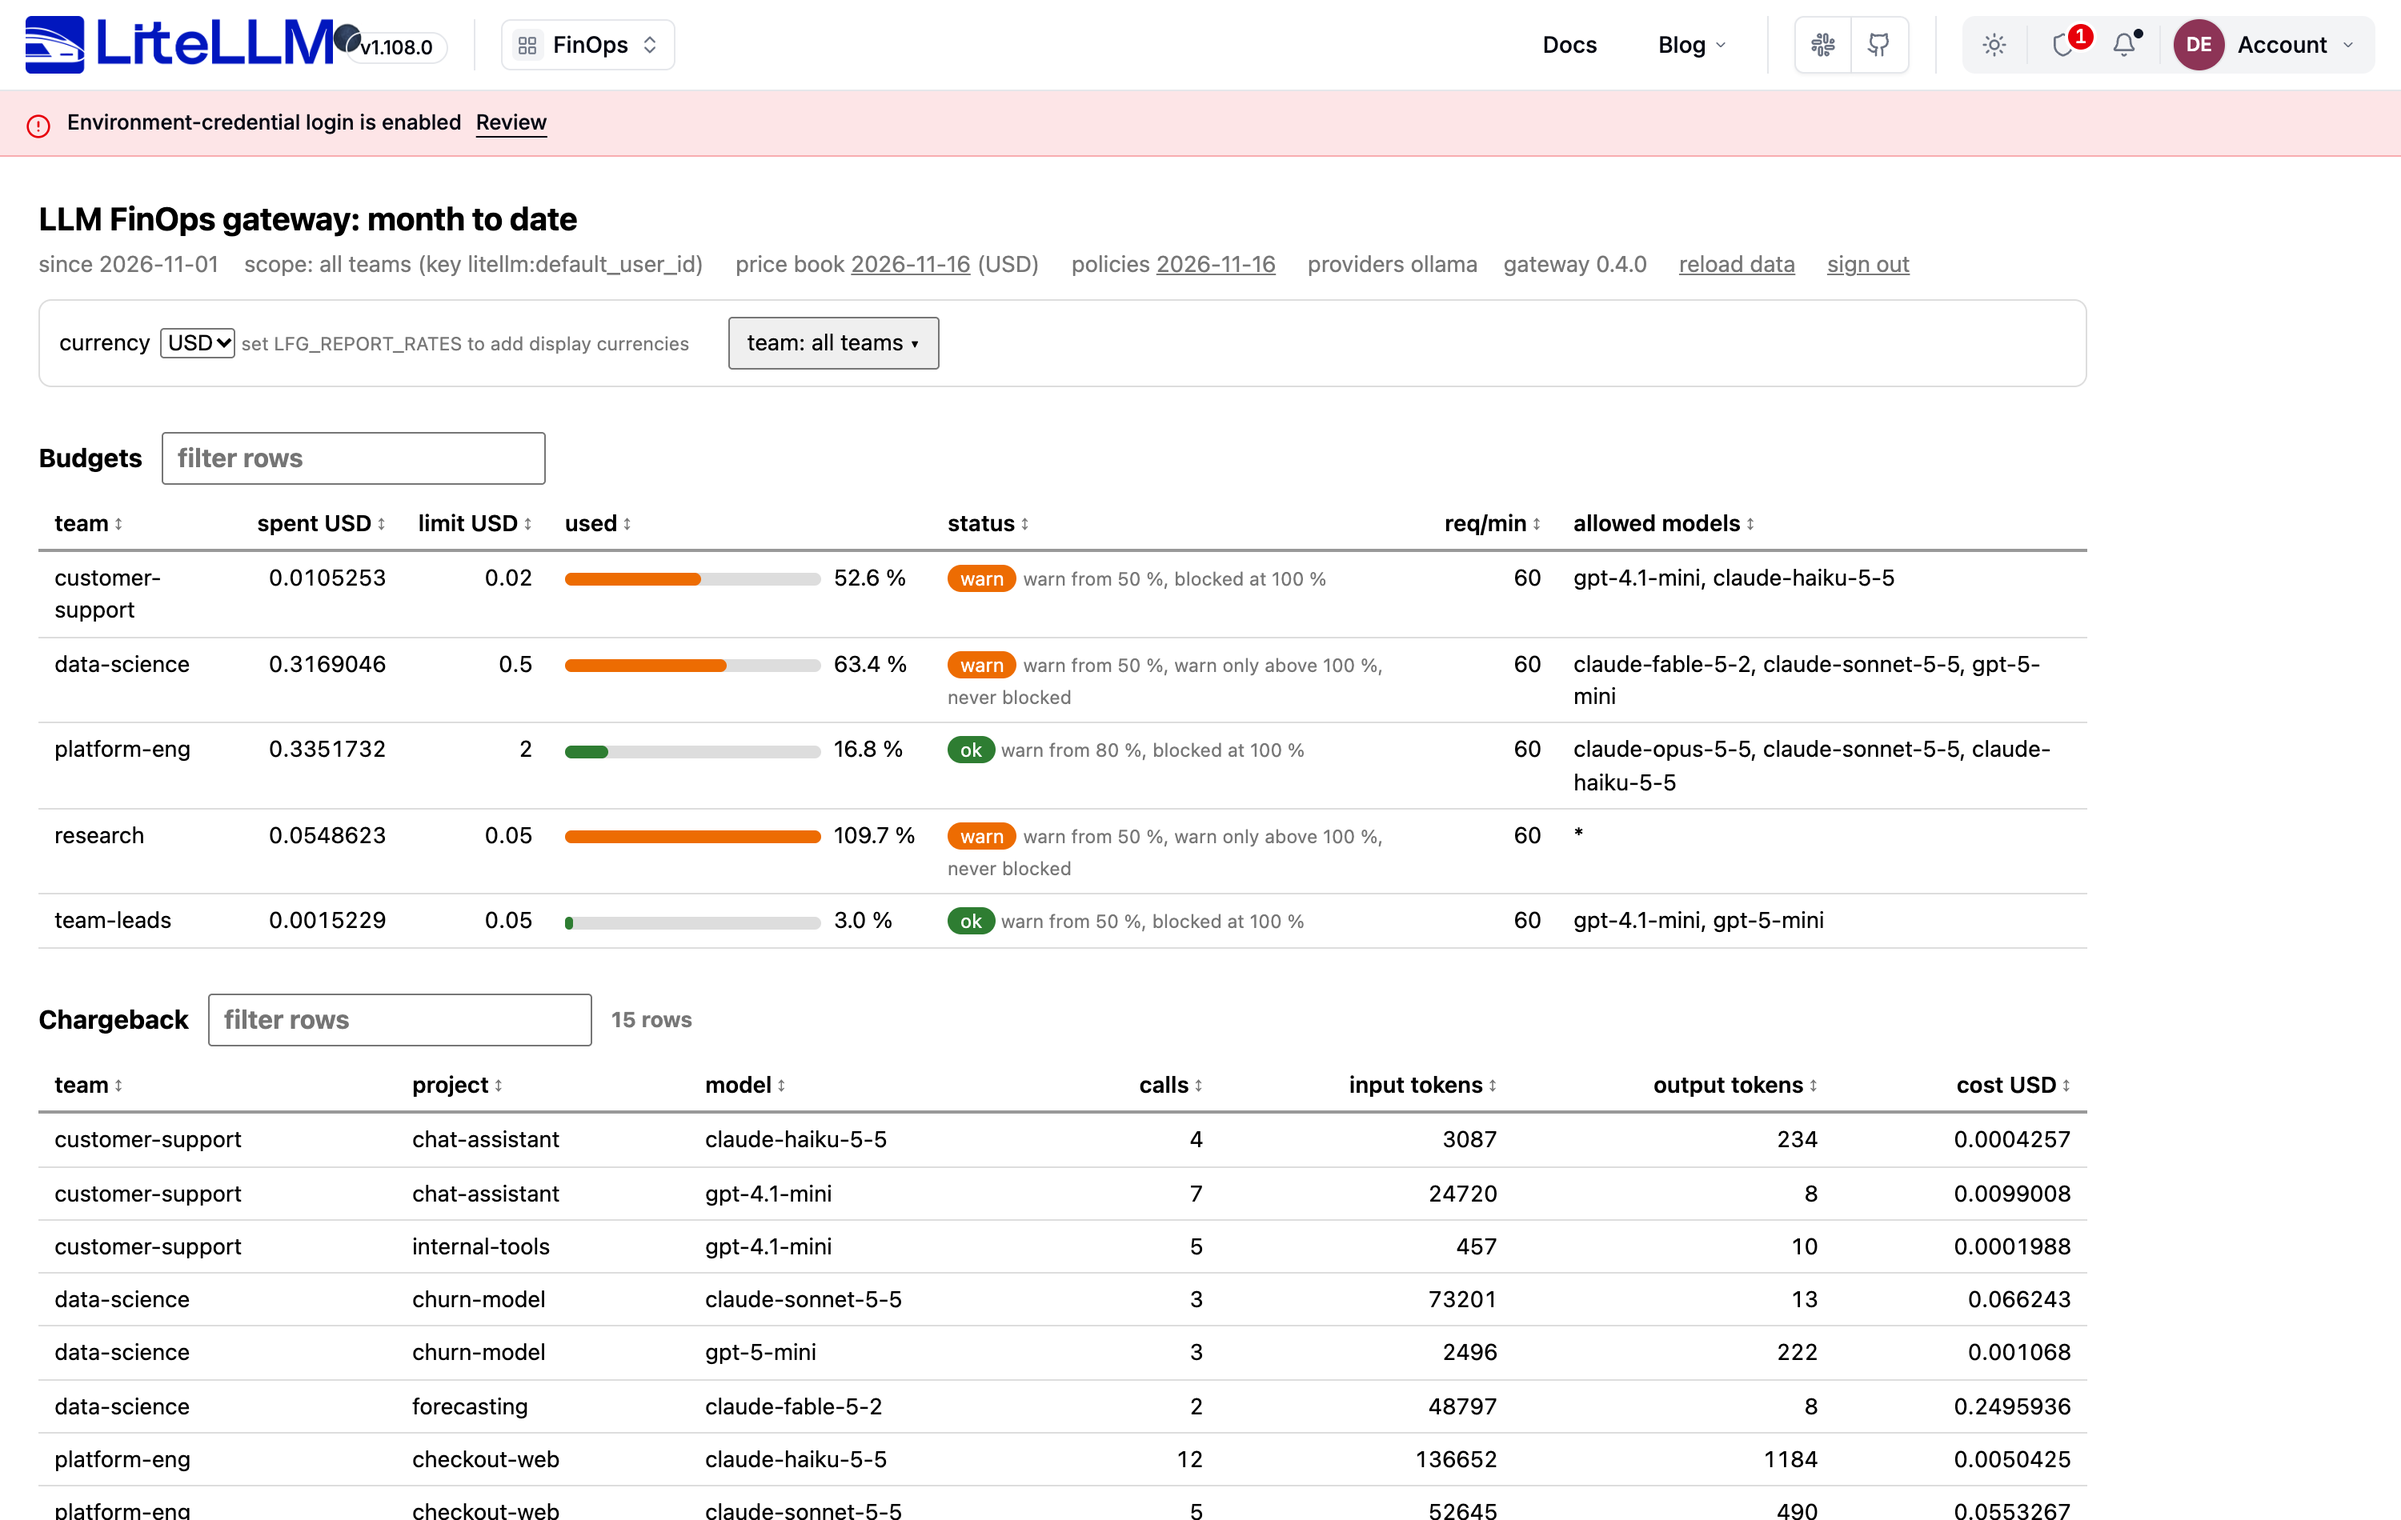
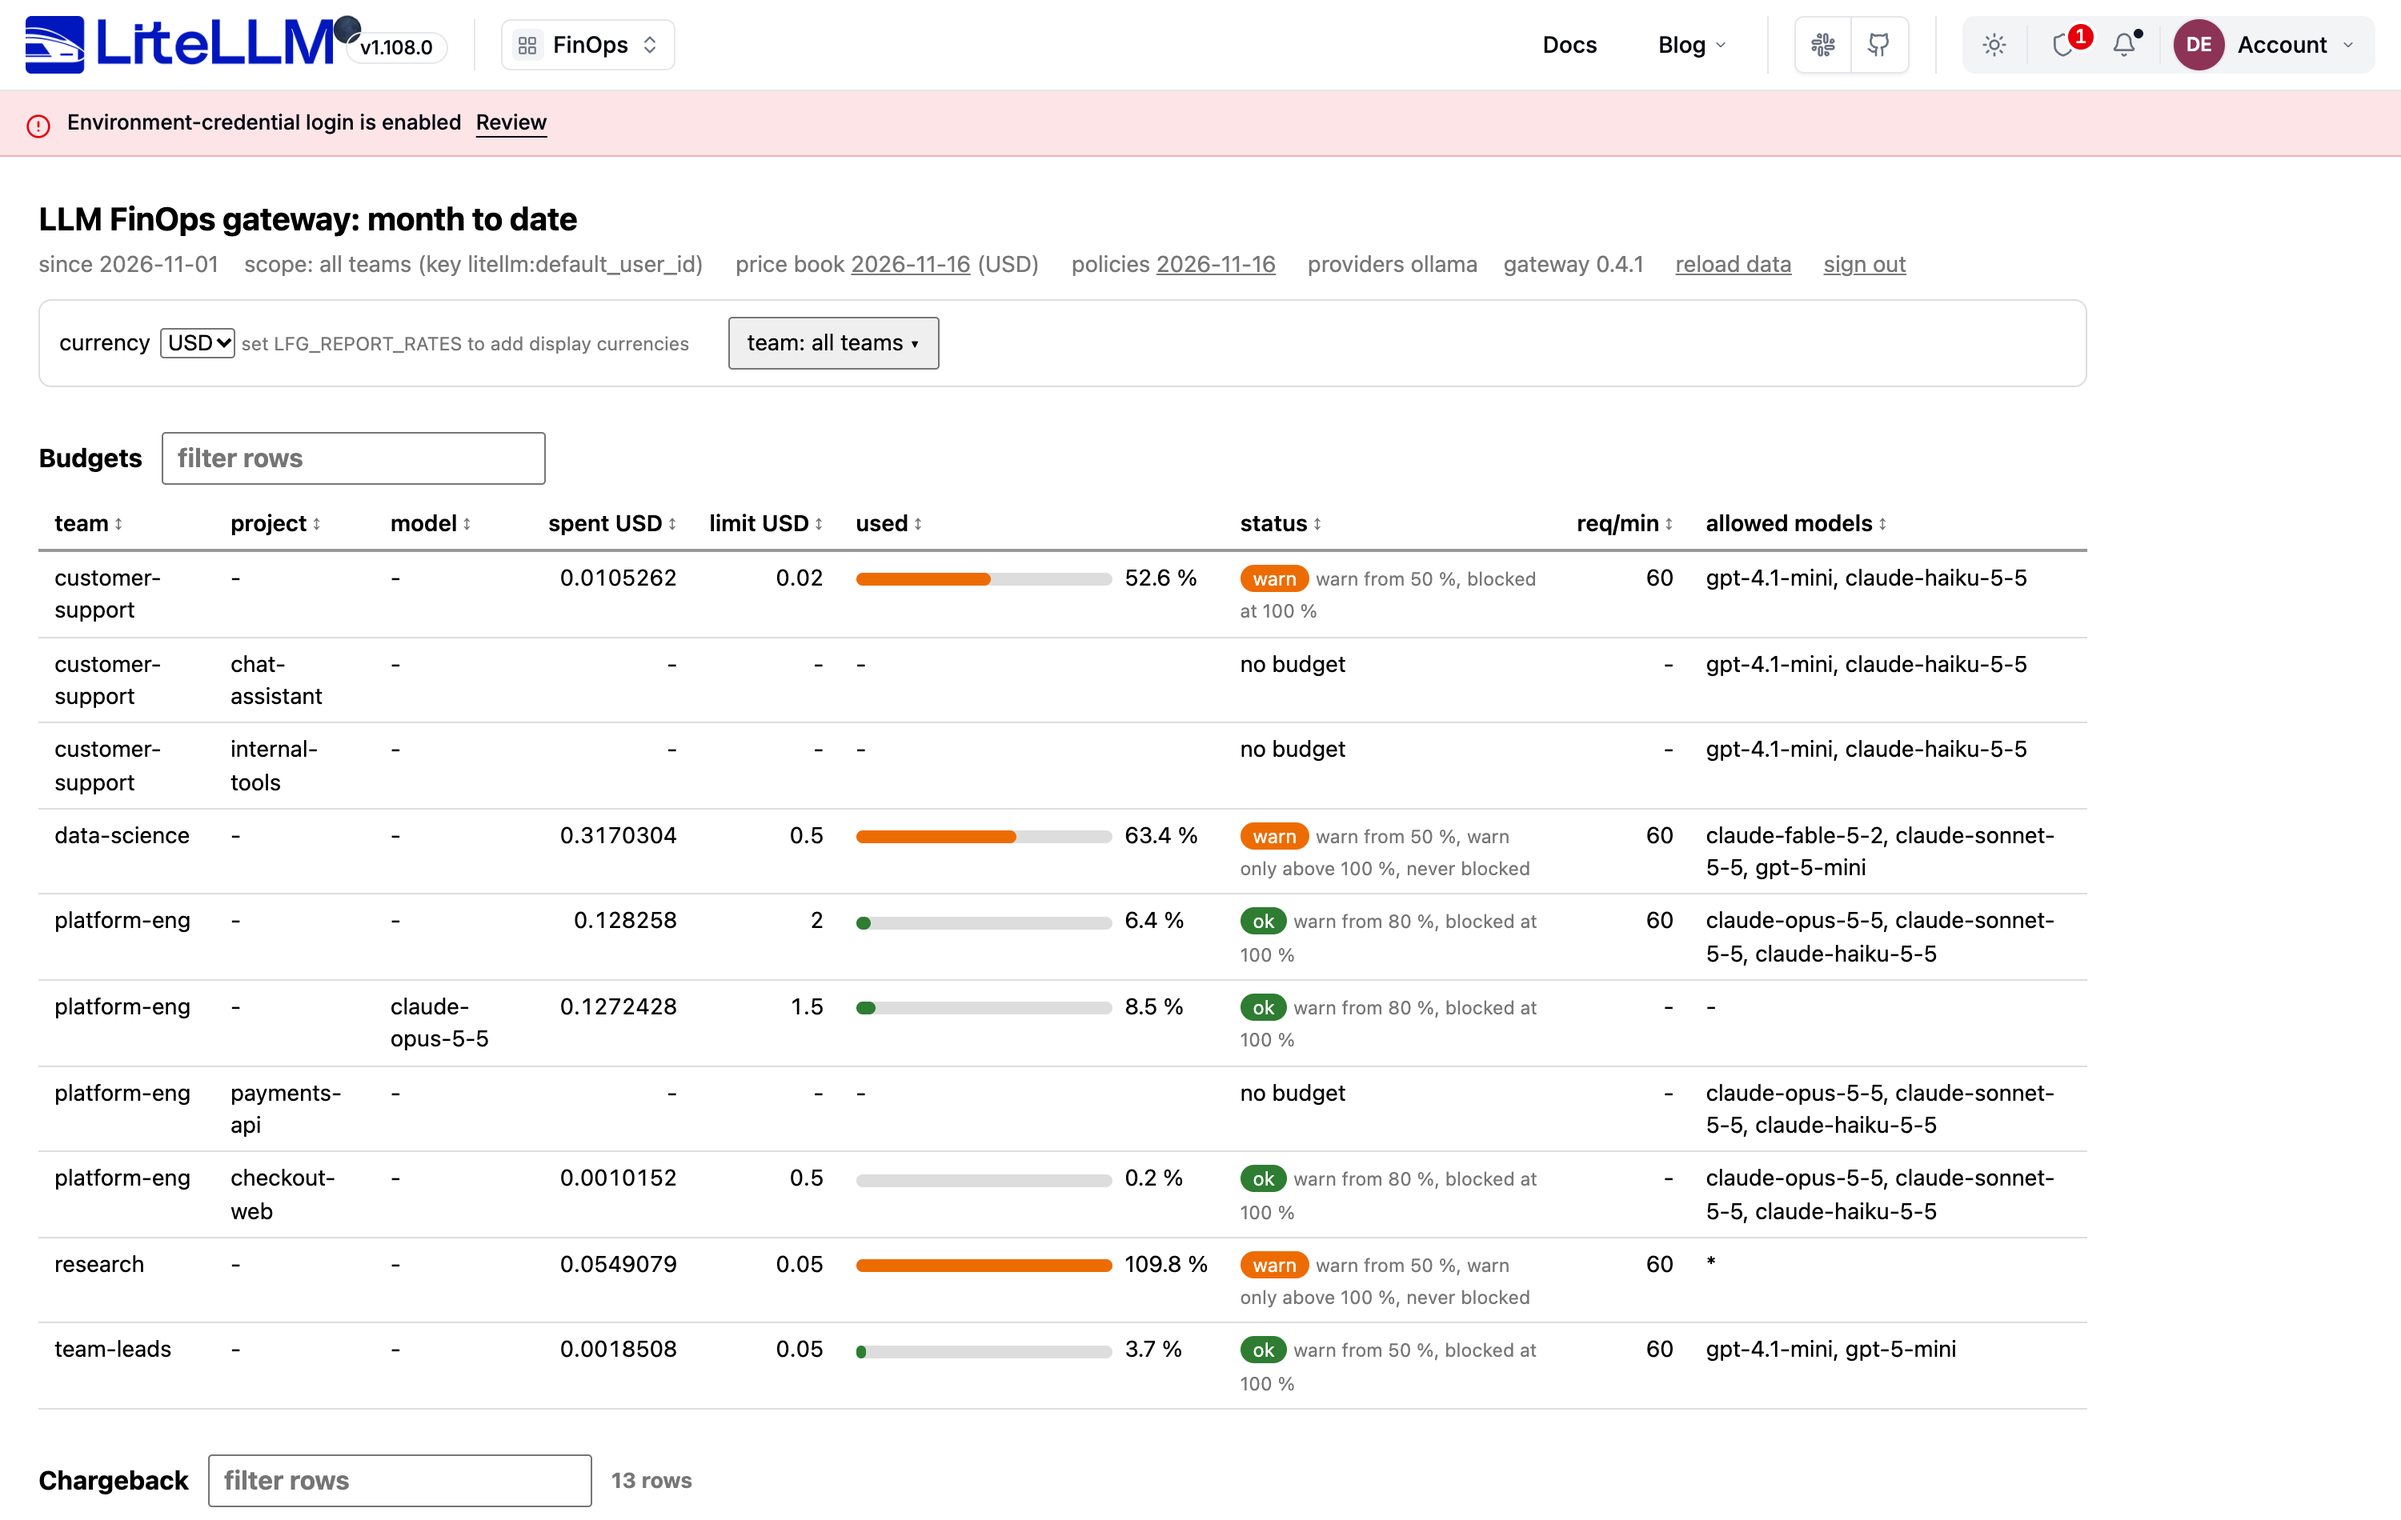
fix(report): keep budget rows aligned when sorting, retake README images

diff --git a/tests/test_report.py b/tests/test_report.py
@@ -1,5 +1,6 @@
 from __future__ import annotations
 
+import re
 from collections.abc import Iterator
 from decimal import Decimal
 from pathlib import Path
@@ -193,8 +194,6 @@ def test_budget_bar_and_percentage_stay_on_one_line() -> None:
 def test_report_includes_nested_budget_scopes_and_reservation_cap(
     scope: str, pricing_path: Path, price_book: PriceBook, ledger: Ledger, tmp_path: Path
 ) -> None:
-    import re
-
     policies_path = tmp_path / "report-policies.yaml"
     policies_path.write_text(
         "defaults:\n  allowed_models: ['*']\nteams:\n"
@@ -232,3 +231,35 @@ def test_report_includes_nested_budget_scopes_and_reservation_cap(
             csv.text.splitlines()[0]
             == "team,project,model,calls,input_tokens,output_tokens,cost_usd"
         )
+
+
+def test_budget_rows_keep_their_columns_and_name_a_model_once() -> None:
+    from llm_finops_gateway.models import BudgetEnvelope, ProjectBudgetRow, TeamBudgetRow
+    from llm_finops_gateway.report import _budget_rows
+
+    budget = BudgetEnvelope(
+        limit_usd="2",
+        spent_usd="1",
+        reserved_usd="0",
+        used_pct="50.0",
+        remaining_usd="1",
+        level="ok",
+        enforcement="block",
+        warn_at_pct="80",
+        block_at_pct="100",
+    )
+    team = TeamBudgetRow(
+        team="t",
+        allowed_models=["m-1", "m-2"],
+        budget=None,
+        model_budgets={"m-1": budget},
+        projects=[ProjectBudgetRow(project="p", allowed_models=["m-2"], budget=None)],
+    )
+    rows = re.findall(r"<tr.*?</tr>", _budget_rows([team]))
+    assert len(rows) == 3
+    # a row without a budget used to merge four cells, which shifted its columns when sorting
+    assert [len(re.findall(r"<td", row)) for row in rows] == [9, 9, 9]
+    assert "colspan" not in "".join(rows) and rows[0].count("no budget") == 1
+    # a model budget's row names its model in the model column only
+    assert rows[1].count("m-1") == 1 and rows[1].endswith("<td>-</td></tr>")
+    assert rows[0].endswith("<td>m-1, m-2</td></tr>") and rows[2].endswith("<td>m-2</td></tr>")

diff --git a/src/llm_finops_gateway/report.py b/src/llm_finops_gateway/report.py
@@ -342,7 +342,8 @@ def _enforcement_note(warn_pct: str, block_pct: str, enforcement: str) -> str:
 
 def _budget_cells(b: BudgetEnvelope | None) -> str:
     if b is None:
-        return "<td colspan=4>no budget</td>"
+        # one cell per column, so sorting compares the same column in every row
+        return '<td class="num">-</td><td class="num">-</td><td>-</td><td>no budget</td>'
     pct = min(float(b.used_pct), 100.0)
     color = {"ok": "var(--ok)", "warn": "var(--warn)", "block": "var(--block)"}[b.level]
     bar = f'<span class="bar"><i style="width:{pct:.0f}%;background:{color}"></i></span>'
@@ -376,13 +377,13 @@ def _budget_rows(rows: list[TeamBudgetRow]) -> str:
             render(row.team, "-", "-", row.budget, row.allowed_models, row.requests_per_minute)
         )
         for model, budget in (row.model_budgets or {}).items():
-            body.append(render(row.team, "-", model, budget, [model]))
+            body.append(render(row.team, "-", model, budget, ["-"]))
         for project in row.projects or []:
             body.append(
                 render(row.team, project.project, "-", project.budget, project.allowed_models)
             )
             for model, budget in (project.model_budgets or {}).items():
-                body.append(render(row.team, project.project, model, budget, [model]))
+                body.append(render(row.team, project.project, model, budget, ["-"]))
     return "".join(body) or '<tr><td colspan="9">no teams yet</td></tr>'
 
 

diff --git a/CLAUDE.md b/CLAUDE.md
@@ -60,7 +60,7 @@ docs/images/       README images; diagrams.py draws architecture.svg and archite
                    (`python docs/images/diagrams.py`, needs the [demo] extra)
 docs/              architecture.md, deployment.md, azure-setup.md, testing-plan.md, comparison.md,
                    litellm.md, adr/0001..0028
-tests/             one test module per source module, 268 tests (+4 PostgreSQL tests when LFG_TEST_DATABASE_URL is set;
+tests/             one test module per source module, 272 tests (+4 PostgreSQL tests when LFG_TEST_DATABASE_URL is set;
                    the 21 LiteLLM plugin tests skip without the [litellm] extra), FakeProvider in conftest.py
 ```
 

diff --git a/CHANGELOG.md b/CHANGELOG.md
@@ -10,9 +10,13 @@ is called out here.
 ### Fixed
 - The report page shows project and model budgets alongside team budgets, and the policy table
   includes the output-token reservation cap.
+- The budgets table keeps its columns aligned when sorting: a row without a budget has one cell
+  per column, and a model budget's row names its model once.
 
 ### Changed
 - The install instructions use the PyPI package (`pip install "llm-finops-gateway[litellm]"`).
+- README images: the report page and the report inside the LiteLLM dashboard retaken with the
+  budgets table per team, project and model.
 
 ## [0.4.1] - 2026-11-16
 
